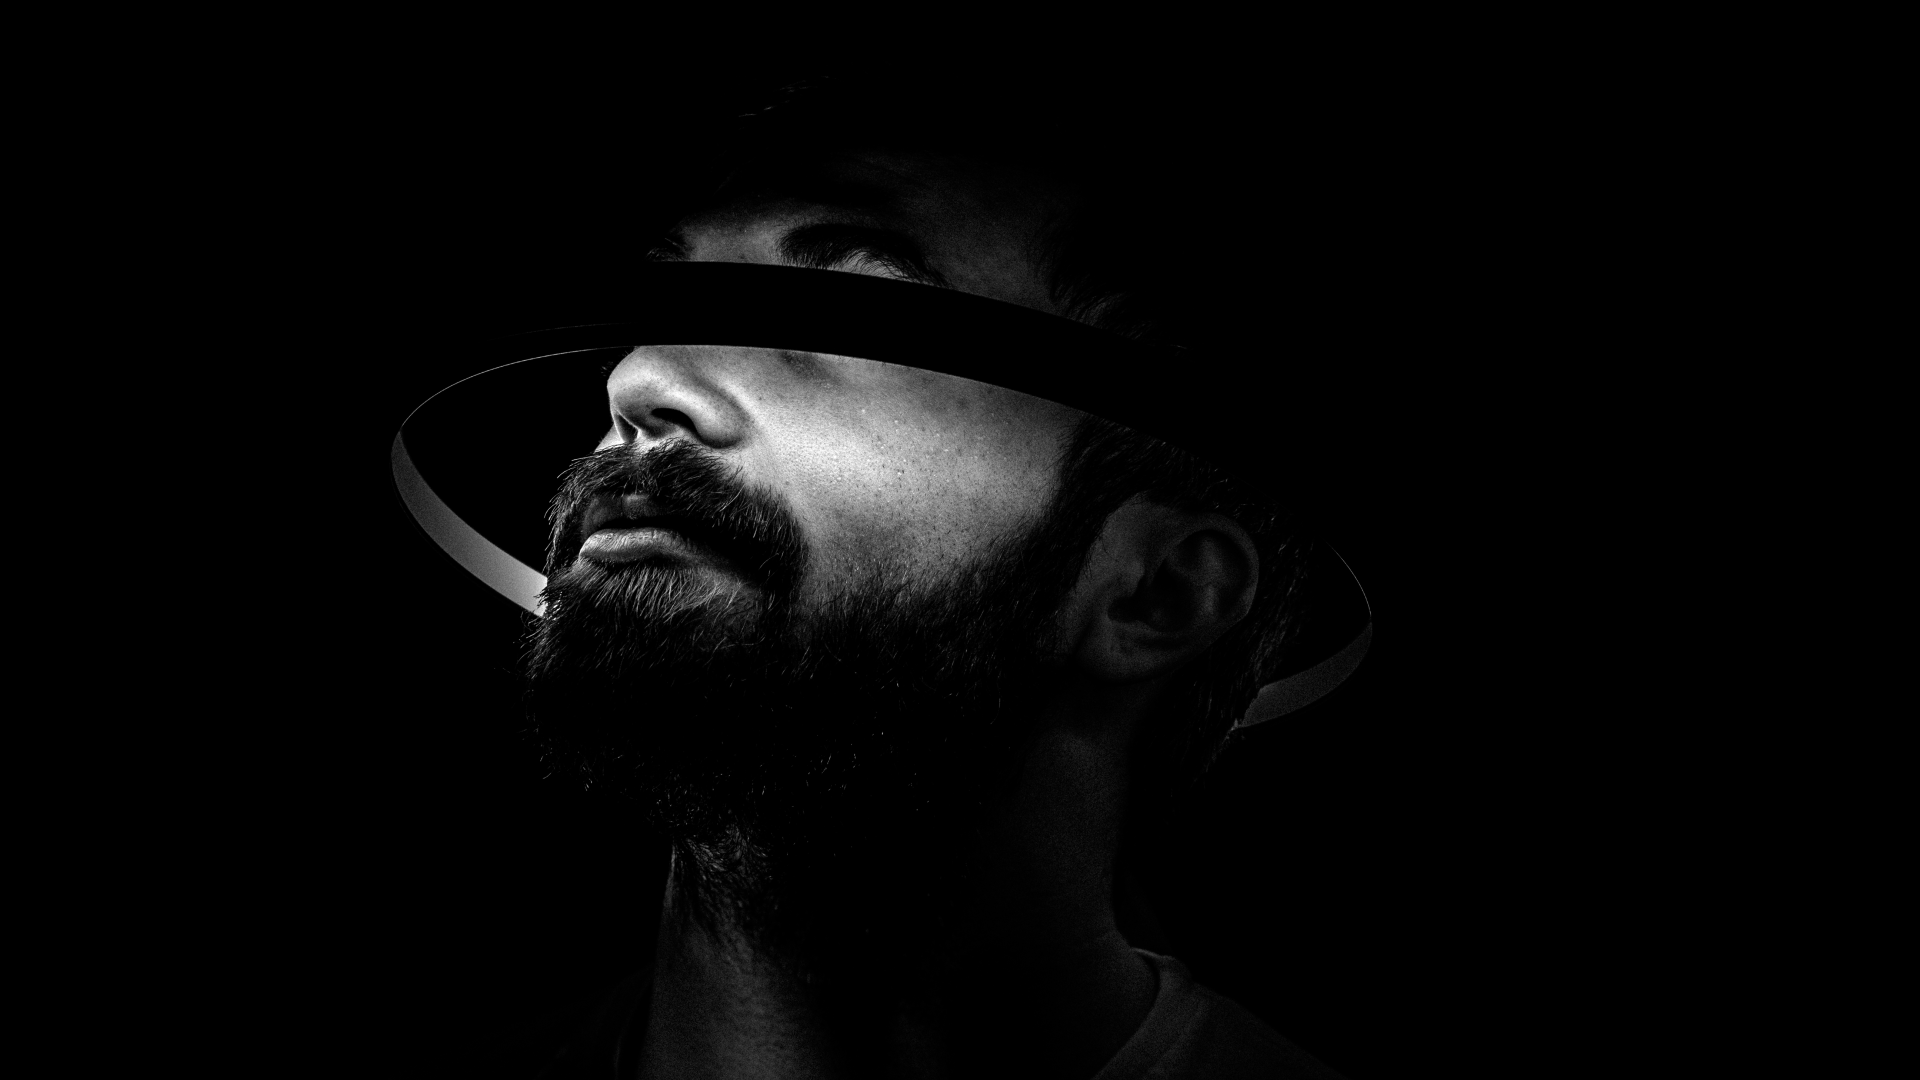
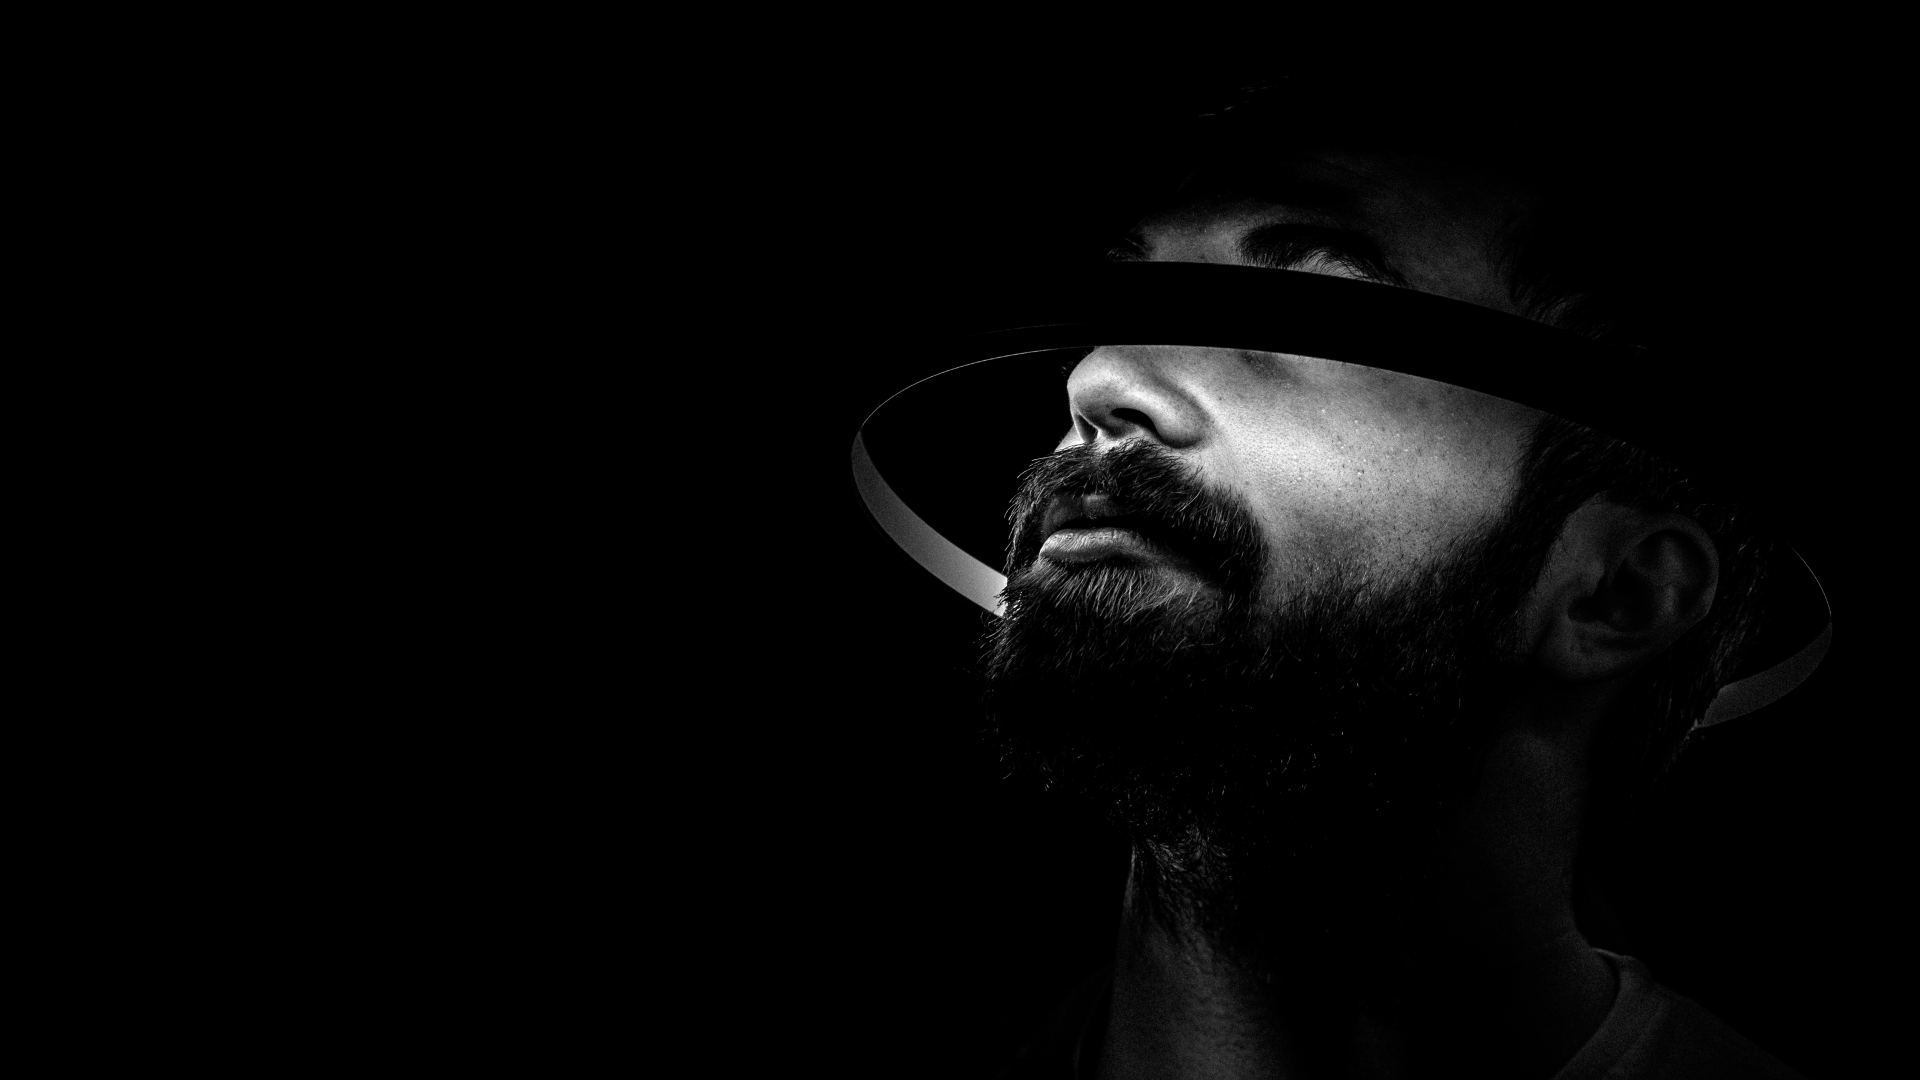
Modifying aside menu and bg

diff --git a/brvo-portfolio/src/layout/Headers/AsideMenu.js b/brvo-portfolio/src/layout/Headers/AsideMenu.js
@@ -2,8 +2,8 @@
 
 const Asidemenu = () => {
     return (
-        <aside className="aside-menu flex-md-column">
-            <nav class="nav flex-md-column align-items-center">
+        <aside className="aside-menu flex-md-column  align-self-md-center align-items-md-center">
+            <nav class="nav flex-md-column mx-md-5">
                 <a class="nav-link active link-secondary" aria-current="page" href="#"> HOME </a>
                 <a class="nav-link link-secondary" href="#"> ABOUT </a>
                 <a class="nav-link link-secondary" href="#"> PORTFOLIO </a>

diff --git a/brvo-portfolio/src/Css/App.css b/brvo-portfolio/src/Css/App.css
@@ -20,6 +20,15 @@ body {
   background-position: center;
 }
 
+.content {
+  height: auto;
+}
+@media (min-width: 768px) {
+  .content {
+    height: 90%;
+  }
+}
+
 /*!
  * Bootstrap v5.1.1 (https://getbootstrap.com/)
  * Copyright 2011-2021 The Bootstrap Authors

diff --git a/brvo-portfolio/src/Home.js b/brvo-portfolio/src/Home.js
@@ -4,7 +4,7 @@ import BasicLayout from './layout/BasicLayout';
 function Home() {
   return (
     <BasicLayout>
-       <main className="flex-grow-1">
+       <main className="d-flex flex-grow-1">
           <p> testing </p>
        </main>
     </BasicLayout>

diff --git a/brvo-portfolio/src/Sass/pages/_home.scss b/brvo-portfolio/src/Sass/pages/_home.scss
@@ -4,3 +4,12 @@
     background-size:cover;
     background-position:center;
 }
+
+.content {
+    height: auto;
+    
+    @media (min-width: 768px) { 
+        height: 90%; 
+    }
+}
+
